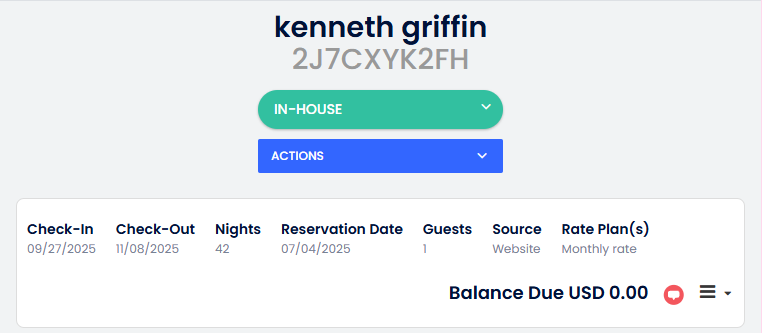
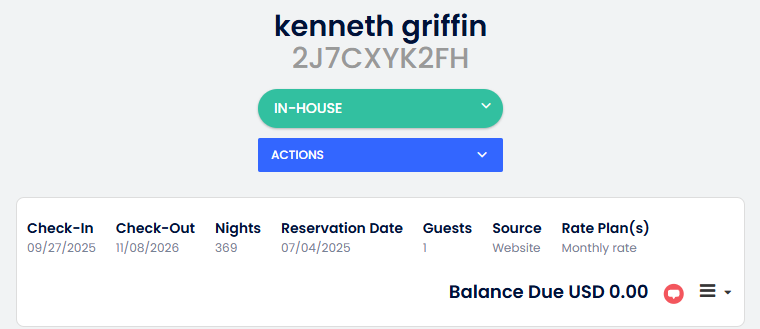
changes

diff --git a/hotel-booking-app/src/TestimonialData.js b/hotel-booking-app/src/TestimonialData.js
@@ -4,7 +4,7 @@ export const testimonials = [
   {
     id: 1,
     name: "Kenneth Griffin",
-    nights: 365,
+    nights: 369,
     videoUrl: "https://res.cloudinary.com/dkmr3h5jb/video/upload/v1762532361/IMG_7553_njkbmt.mov", // Store in public/testimonials/
     thumbnailUrl: "/testimonials/thumbnail-kenneth.png",
     confirmationImageUrl: "/testimonials/confirmation-kenneth.png",
